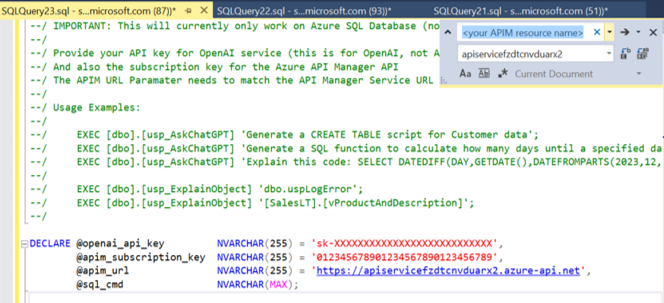
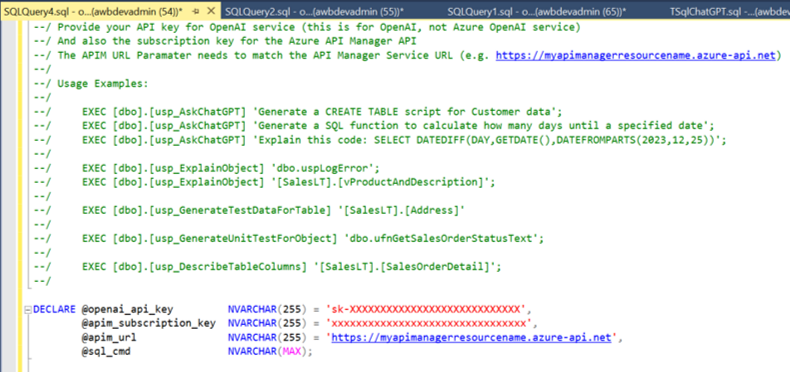
Improved error handling and APIM URL defaults

diff --git a/README.md b/README.md
@@ -43,15 +43,15 @@ Make a note of this subscription key somewhere safe (do not share) - you will ne
 
 ## 3. Run the TSqlChatGPT SQL Script
 
-> It is recommended to use SQL Management Studio to run the ChatGPT SQL commands - most responses will be displayed in the Messages tab and this may not work correctly in other client applications (such as the Query Preview feature in the Azure Portal)
+> Use either [SQL Management Studio](https://learn.microsoft.com/en-us/sql/ssms/download-sql-server-management-studio-ssms) or [Azure Data Studio](https://learn.microsoft.com/en-us/sql/azure-data-studio/download-azure-data-studio) to run the ChatGPT SQL commands - most responses will be displayed in the Messages tab and this may not work correctly in other client applications (such as the Query Preview feature in the Azure Portal)
 
-Open SSMS and connect to your Azure SQL Database - either download and open the TSqlChatGPT.sql file (from the sql folder) or copy the contents to a new query window.
+Open SSMS or Azure Data Studio and connect to your Azure SQL Database - either download and open the TSqlChatGPT.sql file (from the sql folder) or copy the contents to a new query window.
 
 At the top of the script, replace the following:
 
 - Paste your OpenAI API Key in the `@openai_api_key` variable
 - Paste your API Management Subscription Key in the `@apim_subscription_key` variable
-- Now perform a Find/Replace (CTRL+H), find `<your APIM resource name>` and replace with the name of your API Management Service.
+- Paste the name of your API Management Service in the `@apim_url` variable
 
 The SQL Script should look similar to the screenshot below - once you've pasted in the correct keys, run the script.
 
@@ -105,3 +105,15 @@ EXEC [dbo].[usp_DescribeTableColumns] 'SalesLT.SalesOrderDetail';
 
 EXEC [dbo].[usp_DescribeTableColumns] '[SalesLT].[Address]';
 ```
+
+## Is TSqlChatGPT self-aware?  
+Not really, but it can explain itself!  
+Try the following and see what you get:
+
+```sql
+EXEC [dbo].[usp_ExplainObject] '[dbo].[usp_AskChatGPT]';
+```
+
+Hopefully, it looks something like below:
+
+![SSMS SQL Script](./assets/selfaware.png)
